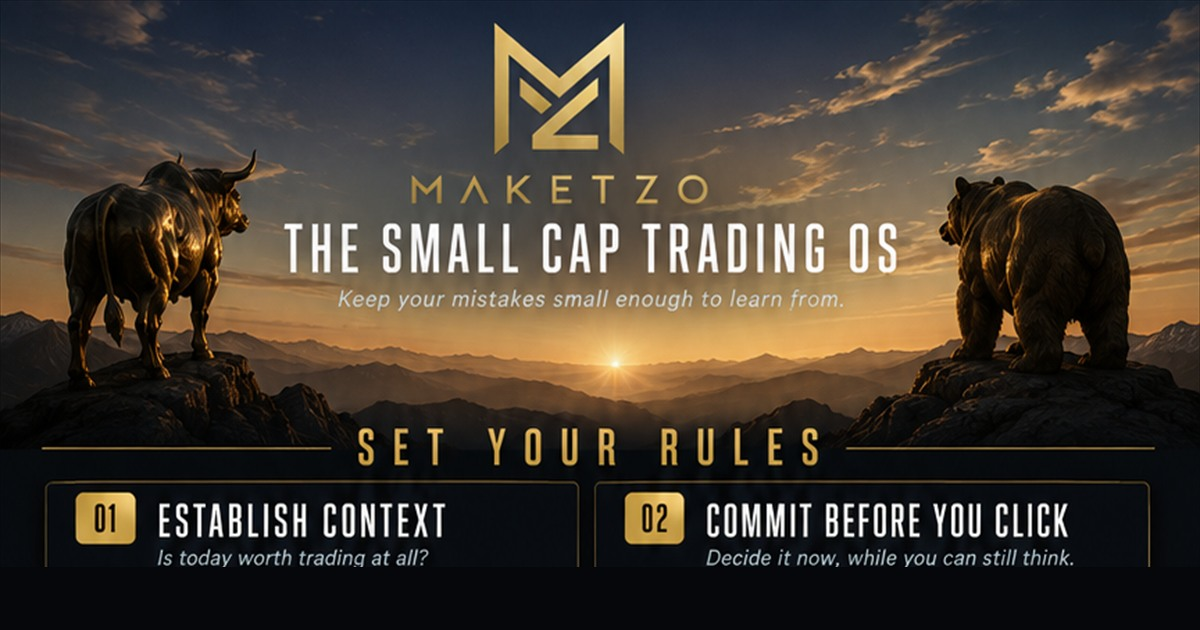
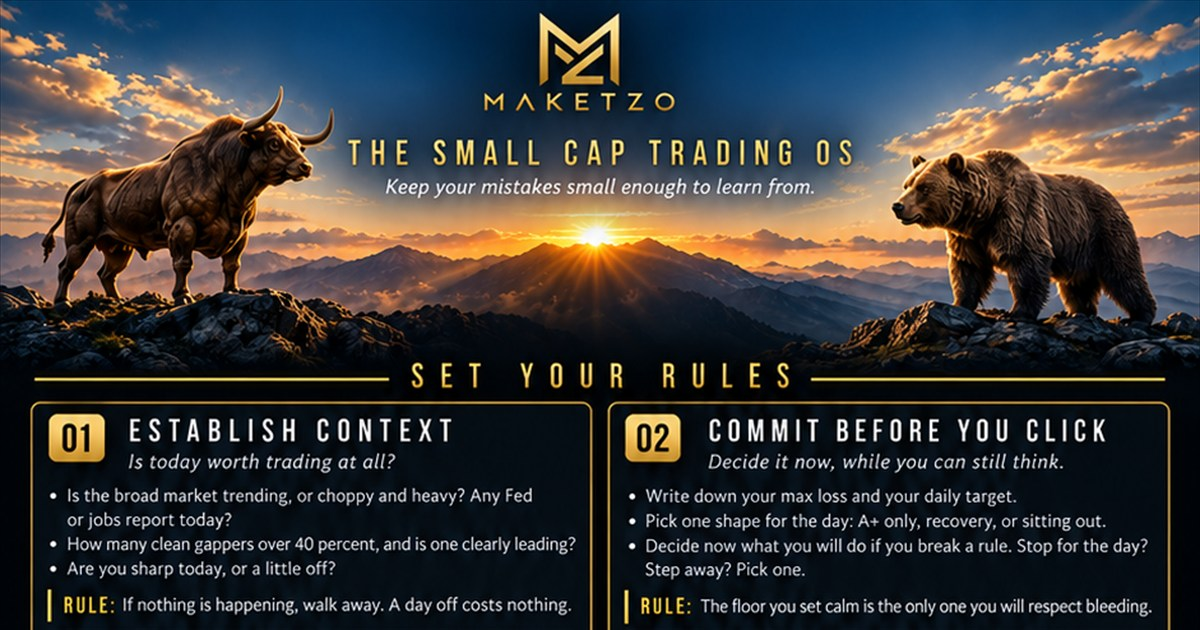
Trading OS v3.1: new poster art, same copy
Ed relaid out the poster: stations 01/02 and 04/05 now sit two-up instead of
stacked, and THE GATE, the running strip and the footer carry photographic
bands. 941x1672, wider than the 864 it replaces and 150px shorter, so it reads
with less scrolling.

The copy did not change. A magnified character sweep confirmed every band
label, station header, rule line, the gate question, the strip and the three
principles are identical to what is already transcribed, so neither
transcription moves and rows 4, 5 and 7 of the resync checklist do not apply.

Viewer widths retuned for the new native size: min(941px, 96vw) fit, 1374px
zoomed, 1035px under 520px. Same 1.46x reading ratio the poster has had since
v2.

The OG card improved as a side effect. At 941 wide the exact-fill cut is 494
source px, which lands just below both RULE lines in stations 01 and 02, so the
card is a clean 1200x630 with no letterbox gutter. The v3 card needed a 63px
gutter to avoid clipping a sentence.

Six cache busts to ?v=5, including og:image and twitter:image so scrapers
refetch.

diff --git a/trading-os.html b/trading-os.html
@@ -11,13 +11,13 @@
 <meta property="og:description" content="The whole trading system on one page. What to check before you click, how to manage what you took, and when to call the day. Keep your mistakes small enough to learn from. Free to read and share.">
 <meta property="og:url" content="https://maketzo.co/trading-os">
 <meta property="og:type" content="website">
-<meta property="og:image" content="https://maketzo.co/assets/trading-os-og.jpg?v=4">
+<meta property="og:image" content="https://maketzo.co/assets/trading-os-og.jpg?v=5">
 <meta property="og:image:width" content="1200">
 <meta property="og:image:height" content="630">
 <meta name="twitter:card" content="summary_large_image">
 <meta name="twitter:title" content="The Trading Operating System &mdash; MAKETZO">
 <meta name="twitter:description" content="The whole trading system on one page. What to check before you click, how to manage what you took, and when to call the day. Keep your mistakes small enough to learn from. Free.">
-<meta name="twitter:image" content="https://maketzo.co/assets/trading-os-og.jpg?v=4">
+<meta name="twitter:image" content="https://maketzo.co/assets/trading-os-og.jpg?v=5">
 <link rel="canonical" href="https://maketzo.co/trading-os">
 <link rel="preconnect" href="https://fonts.googleapis.com">
 <link href="https://fonts.googleapis.com/css2?family=Bebas+Neue&family=DM+Sans:wght@300;400;500;600;700&family=DM+Mono:wght@400;500&display=swap" rel="stylesheet">
@@ -161,9 +161,9 @@ footer { background: var(--mk-obsidian-950); border-top: var(--mk-border-hairlin
 .tos-vbtn:hover { border-color: var(--mk-brand); }
 .tos-vbtn--primary { background: var(--mk-gold-gradient); color: var(--mk-text-on-gold); border-color: rgba(0,0,0,.18); }
 .tos-vscroll { flex: 1; overflow: auto; -webkit-overflow-scrolling: touch; padding: 20px 12px 60px; text-align: center; }
-.tos-vimg { display: block; margin: 0 auto; width: min(864px, 96vw); height: auto; border-radius: 8px; cursor: zoom-in; box-shadow: 0 12px 50px rgba(0,0,0,.6); }
-.tos-vimg.zoomed { width: 1264px; max-width: none; cursor: zoom-out; }
-@media (max-width: 520px) { .tos-vimg.zoomed { width: 950px; } }
+.tos-vimg { display: block; margin: 0 auto; width: min(941px, 96vw); height: auto; border-radius: 8px; cursor: zoom-in; box-shadow: 0 12px 50px rgba(0,0,0,.6); }
+.tos-vimg.zoomed { width: 1374px; max-width: none; cursor: zoom-out; }
+@media (max-width: 520px) { .tos-vimg.zoomed { width: 1035px; } }
 /* Back-to-hub breadcrumb: return to the Free Tools page */
 .back-to-tools { position: absolute; top: 84px; left: 24px; z-index: 20; display: inline-flex; align-items: center; gap: 7px; padding: 7px 15px 7px 12px; font-family: var(--mk-font-sans); font-size: var(--mk-text-sm); font-weight: 500; letter-spacing: 0.02em; color: var(--mk-text-secondary); background: rgba(6,7,10,.55); border: 1px solid rgba(255,255,255,.10); border-radius: var(--mk-radius-pill); -webkit-backdrop-filter: blur(8px); backdrop-filter: blur(8px); transition: color var(--mk-dur-fast), border-color var(--mk-dur-fast), background var(--mk-dur-fast); }
 .back-to-tools:hover { color: var(--mk-brand); border-color: rgba(212,175,55,.40); background: rgba(6,7,10,.72); }
@@ -219,7 +219,7 @@ footer { background: var(--mk-obsidian-950); border-top: var(--mk-border-hairlin
 <!-- ─── THE GRAPHIC ──────────────────────────────────────────────── -->
 <section class="tos-graphic-wrap" id="tos-graphic">
   <button type="button" class="tos-graphic-btn reveal" data-tos-zoom aria-label="View the Trading Operating System full size">
-    <img class="tos-graphic-img" src="assets/trading-os.jpg?v=4" alt="The MAKETZO Trading Operating System, the full one-page trading system">
+    <img class="tos-graphic-img" src="assets/trading-os.jpg?v=5" alt="The MAKETZO Trading Operating System, the full one-page trading system">
     <span class="tos-zoom-hint">Tap to view full size</span>
   </button>
   <div class="tos-actions reveal">
@@ -238,7 +238,7 @@ footer { background: var(--mk-obsidian-950); border-top: var(--mk-border-hairlin
         <button class="mk-share__item mk-share__item--wide" type="button" data-platform="copy" role="menuitem"><svg class="mk-share__item-icon" viewBox="0 0 24 24" aria-hidden="true"><path d="M3.9 12c0-1.71 1.39-3.1 3.1-3.1h4V7H7c-2.76 0-5 2.24-5 5s2.24 5 5 5h4v-1.9H7c-1.71 0-3.1-1.39-3.1-3.1zM8 13h8v-2H8v2zm9-6h-4v1.9h4c1.71 0 3.1 1.39 3.1 3.1s-1.39 3.1-3.1 3.1h-4V17h4c2.76 0 5-2.24 5-5s-2.24-5-5-5z"/></svg><span>Copy link</span></button>
       </div>
     </div>
-    <a class="btn-secondary" href="assets/trading-os.jpg?v=4" download="MAKETZO-Trading-Operating-System.jpg" data-tos-dl>Download</a>
+    <a class="btn-secondary" href="assets/trading-os.jpg?v=5" download="MAKETZO-Trading-Operating-System.jpg" data-tos-dl>Download</a>
   </div>
   <div class="mk-share-toast" role="status" aria-live="polite" hidden>Link copied</div>
 </section>
@@ -426,12 +426,12 @@ footer { background: var(--mk-obsidian-950); border-top: var(--mk-border-hairlin
     <span class="tos-vtitle">Trading Operating System</span>
     <div class="tos-vactions">
       <button type="button" class="tos-vbtn" id="tosViewerZoom">Zoom in</button>
-      <a class="tos-vbtn" href="assets/trading-os.jpg?v=4" download="MAKETZO-Trading-Operating-System.jpg">Download</a>
+      <a class="tos-vbtn" href="assets/trading-os.jpg?v=5" download="MAKETZO-Trading-Operating-System.jpg">Download</a>
       <button type="button" class="tos-vbtn tos-vbtn--primary" id="tosViewerClose">Close</button>
     </div>
   </div>
   <div class="tos-vscroll" id="tosViewerScroll">
-    <img class="tos-vimg" id="tosViewerImg" src="assets/trading-os.jpg?v=4" alt="The MAKETZO Trading Operating System, full size">
+    <img class="tos-vimg" id="tosViewerImg" src="assets/trading-os.jpg?v=5" alt="The MAKETZO Trading Operating System, full size">
   </div>
 </div>
 
